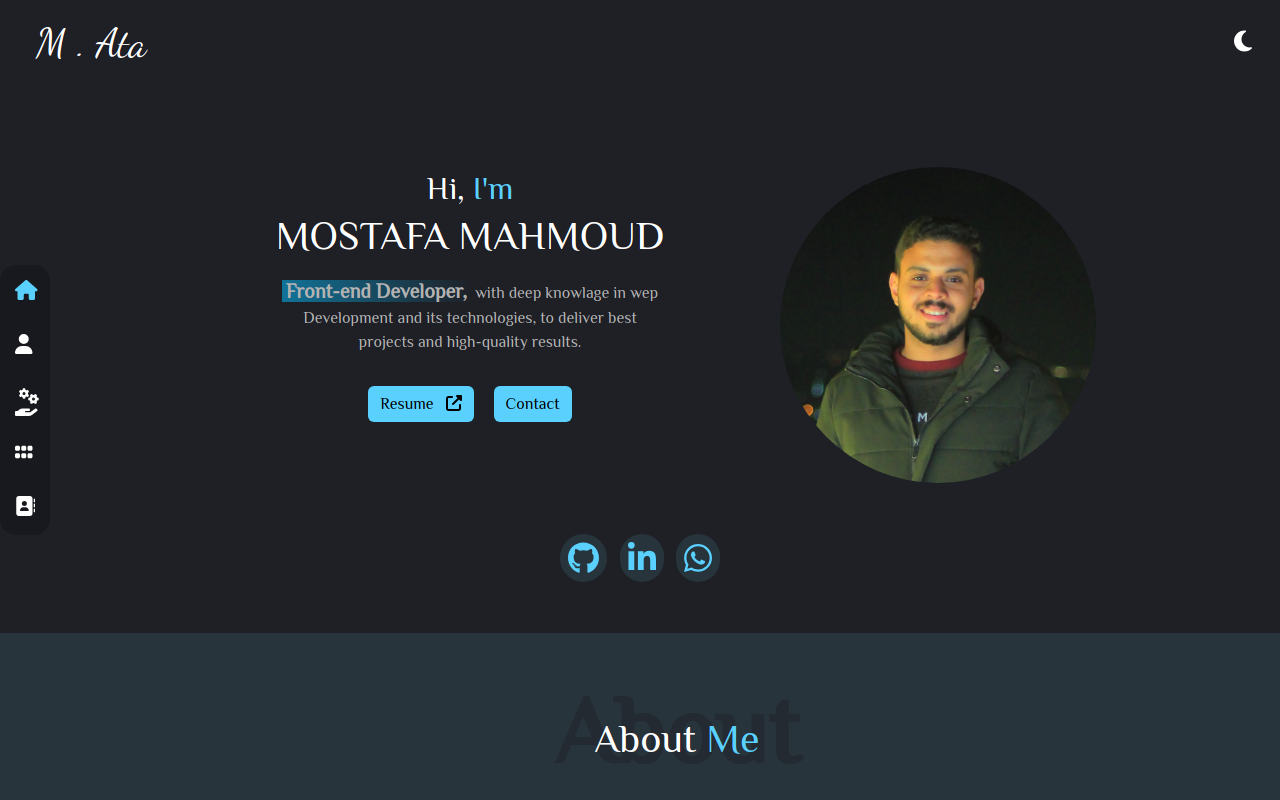
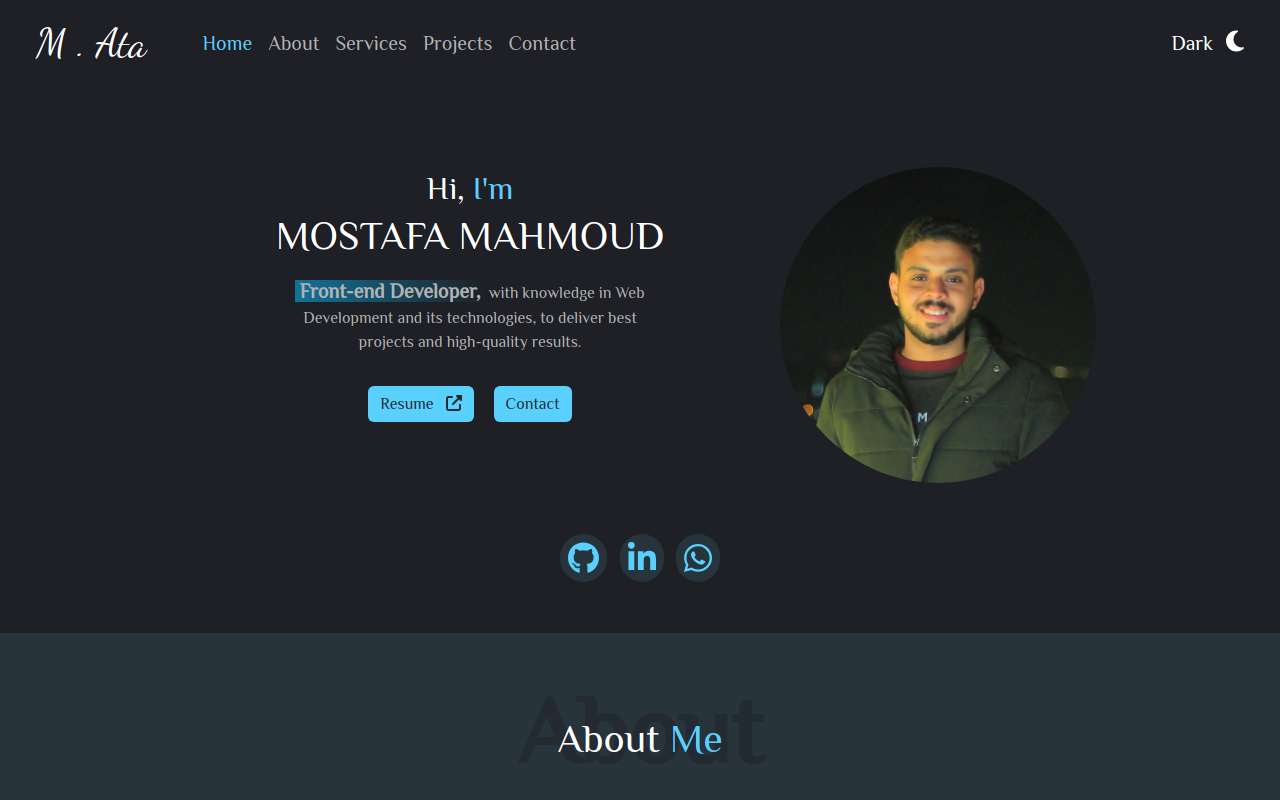
edit

diff --git a/CSS/style.css b/CSS/style.css
@@ -2,18 +2,20 @@
 @import url('https://fonts.googleapis.com/css2?family=Philosopher&display=swap');
 
 :root {
-    --page-1: rgb(30, 32, 38);
-    --page-2: rgb(40, 52, 60);
-    --ico: rgb(19, 23, 28);
-    --home-span-1: rgb(17, 115, 153);
-    --home-span-2: linear-gradient(90deg, rgb(17, 115, 153) 0%, rgba(30, 32, 38, 1) 100%);
-    --second-color: rgb(90, 208, 255);
-    --btn-h: rgb(125, 218, 255);
-    --p: rgb(178, 178, 178);
-    --text: white;
-    --title: rgb(35, 42, 49);
-    --project-h: rgba(40, 51, 62, 0.502);
-    --night: rgba(210, 210, 210, 0.502);
+    --page-1: rgb(222, 222, 222);
+    --page-2: rgb(200, 200, 200);
+    --ico: #b8b8b8;
+    --home-span-1: rgb(155, 118, 195);
+    --home-span-2: linear-gradient(90deg, rgb(155, 118, 195) 0%, rgba(222, 222, 222, 1) 90%);
+    background-color: var(--page-1);
+    --second-color: #7215d8;
+    --btn-h: rgb(150, 60, 250);
+    --p: rgb(46, 46, 46);
+    --text: black;
+    --title: rgb(211, 211, 211);
+    --project-h: rgba(142, 142, 142, 0.7);
+    --night: rgba(30, 32, 37, 0.502);
+    transition: all .5s ease;
 }
 
 
@@ -29,20 +31,18 @@ body {
 }
 
 body.light {
-    --page-1: rgb(222, 222, 222);
-    --page-2: rgb(200, 200, 200);
-    --ico: #b8b8b8;
-    --home-span-1: rgb(155, 118, 195);
-    --home-span-2: linear-gradient(90deg, rgb(155, 118, 195) 0%, rgba(222, 222, 222, 1) 90%);
-    background-color: var(--page-1);
-    --second-color: #7215d8;
-    --btn-h: rgb(150, 60, 250);
-    --p: rgb(46, 46, 46);
-    --text: black;
-    --title: rgb(211, 211, 211);
-    --project-h: rgba(142, 142, 142, 0.7);
-    --night: rgba(30, 32, 37, 0.502);
-    transition: all .5s ease;
+    --page-1: rgb(30, 32, 38);
+    --page-2: rgb(40, 52, 60);
+    --ico: rgb(19, 23, 28);
+    --home-span-1: rgb(17, 115, 153);
+    --home-span-2: linear-gradient(90deg, rgb(17, 115, 153) 0%, rgba(30, 32, 38, 1) 100%);
+    --second-color: rgb(90, 208, 255);
+    --btn-h: rgb(125, 218, 255);
+    --p: rgb(178, 178, 178);
+    --text: white;
+    --title: rgb(35, 42, 49);
+    --project-h: rgba(40, 51, 62, 0.502);
+    --night: rgba(210, 210, 210, 0.502);
 }
 
 
@@ -219,12 +219,12 @@ p {
 }
 
 .navbar-toggler,
-.navbar-toggler-icon{
+.navbar-toggler-icon {
     color: var(--p) !important;
 
 }
 
-.navbar .navbar-nav li a{
+.navbar .navbar-nav li a {
     color: var(--p);
 }
 

diff --git a/index.html b/index.html
@@ -65,10 +65,10 @@
                         </ul>
                         <ul class="navbar-nav ms-md-auto mt-2 mt-lg-0">
                             <li class="theme px-3 fs-5 ms-auto py-2 rounded-5">
-                                <span>Dark
+                                <span class="visually-hidden">Dark
                                     <i class="fa-solid px-2 fs-4 fa-moon"></i>
                                 </span>
-                                <span class="visually-hidden">Light
+                                <span>Light
                                     <i class="fa-solid px-2 fs-4 fa-sun"></i>
                                 </span>
                             </li>
